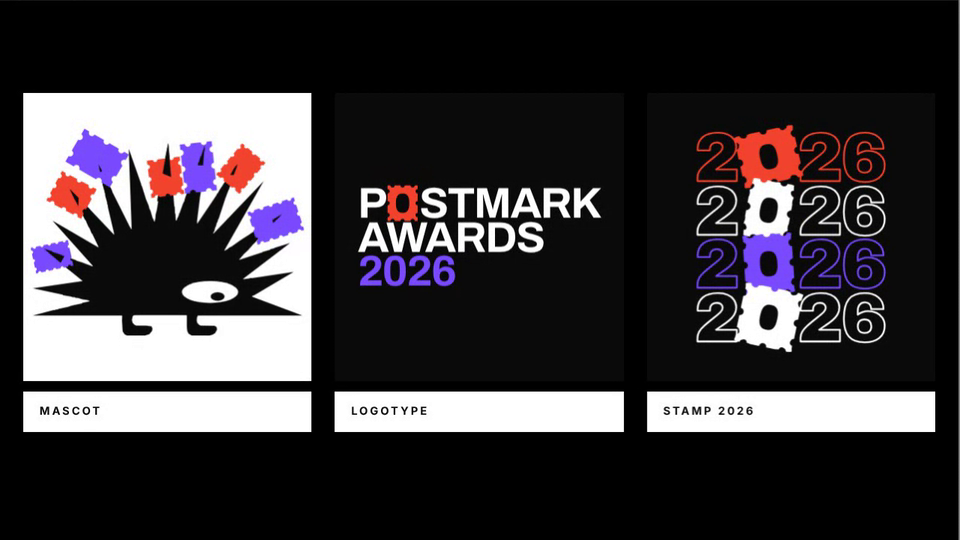
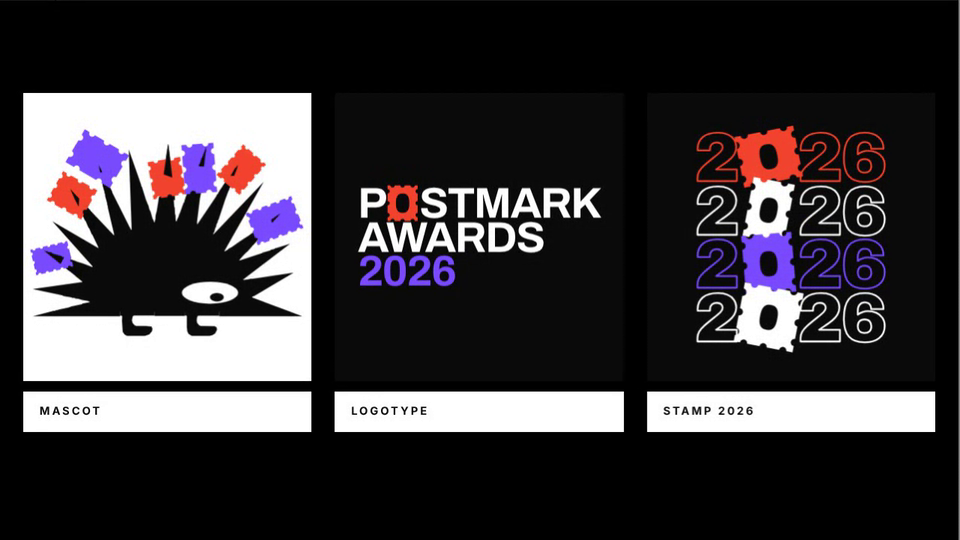
Postmark brand visuals: feet stay static while the body plods
Claude-Session: https://claude.ai/code/session_01AHeBe11E2oZW8Zsz7RdnLE

diff --git a/postmark-awards-brand-visuals/index.html b/postmark-awards-brand-visuals/index.html
@@ -105,7 +105,12 @@ function drawMascot(ctx, W, H, t) {
   ctx.fillStyle = WHITE; ctx.fillRect(0, 0, W, H);
   const ph = TAU * t / PERIOD, bob = 2.6 * Math.sin(ph * 2) + 1.1 * Math.sin(ph * 4 + 0.8); // a slow, slight plod
   ctx.save(); ctx.translate(0, bob);
-  ctx.fillStyle = BLACK; ctx.beginPath(); pathFlat(ctx, BODY); ctx.fill();
+  // the body plods up and down, but the feet stay planted: the legs are drawn from a still copy of the outline
+  const LEGS = [[335, 750, 120, 140], [560, 750, 120, 140]];
+  ctx.save(); ctx.beginPath(); ctx.rect(-50, -50, 1100, 1100); LEGS.forEach((r) => ctx.rect(r[0], r[1] + 8, r[2], r[3])); ctx.clip('evenodd');
+  ctx.fillStyle = BLACK; ctx.beginPath(); pathFlat(ctx, BODY); ctx.fill(); ctx.restore();
+  ctx.save(); ctx.translate(0, -bob); ctx.beginPath(); LEGS.forEach((r) => ctx.rect(...r)); ctx.clip();
+  ctx.fillStyle = BLACK; ctx.beginPath(); pathFlat(ctx, BODY); ctx.fill(); ctx.restore();
   // eye: white oval with a pupil that looks around and a blink
   const blink = (t % 3) > 2.2 && (t % 3) < 2.36 ? 0.12 : 1;
   ctx.fillStyle = WHITE; ctx.beginPath(); ctx.ellipse(EYE.c[0], EYE.c[1], EYE.rx, EYE.ry * blink, EYE.rot * Math.PI / 180, 0, TAU); ctx.fill();
